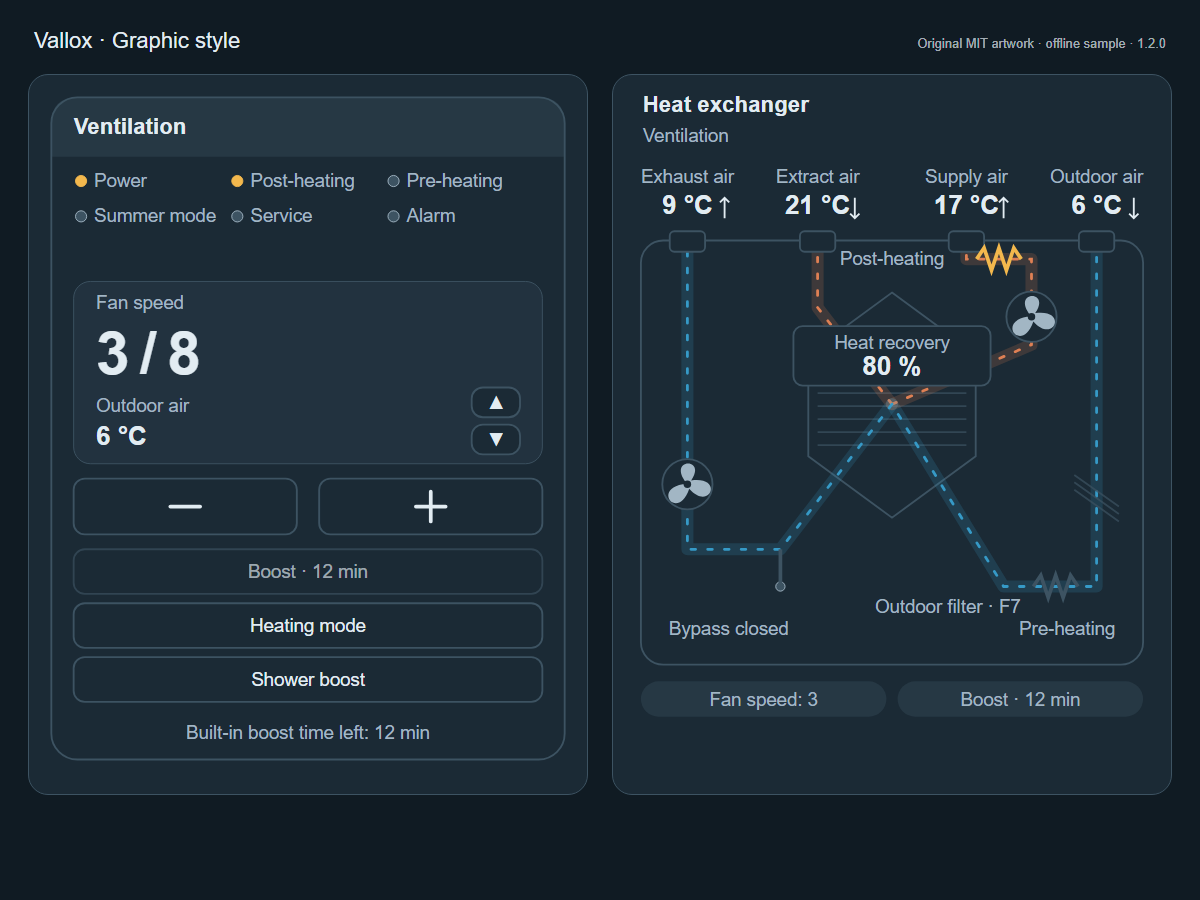
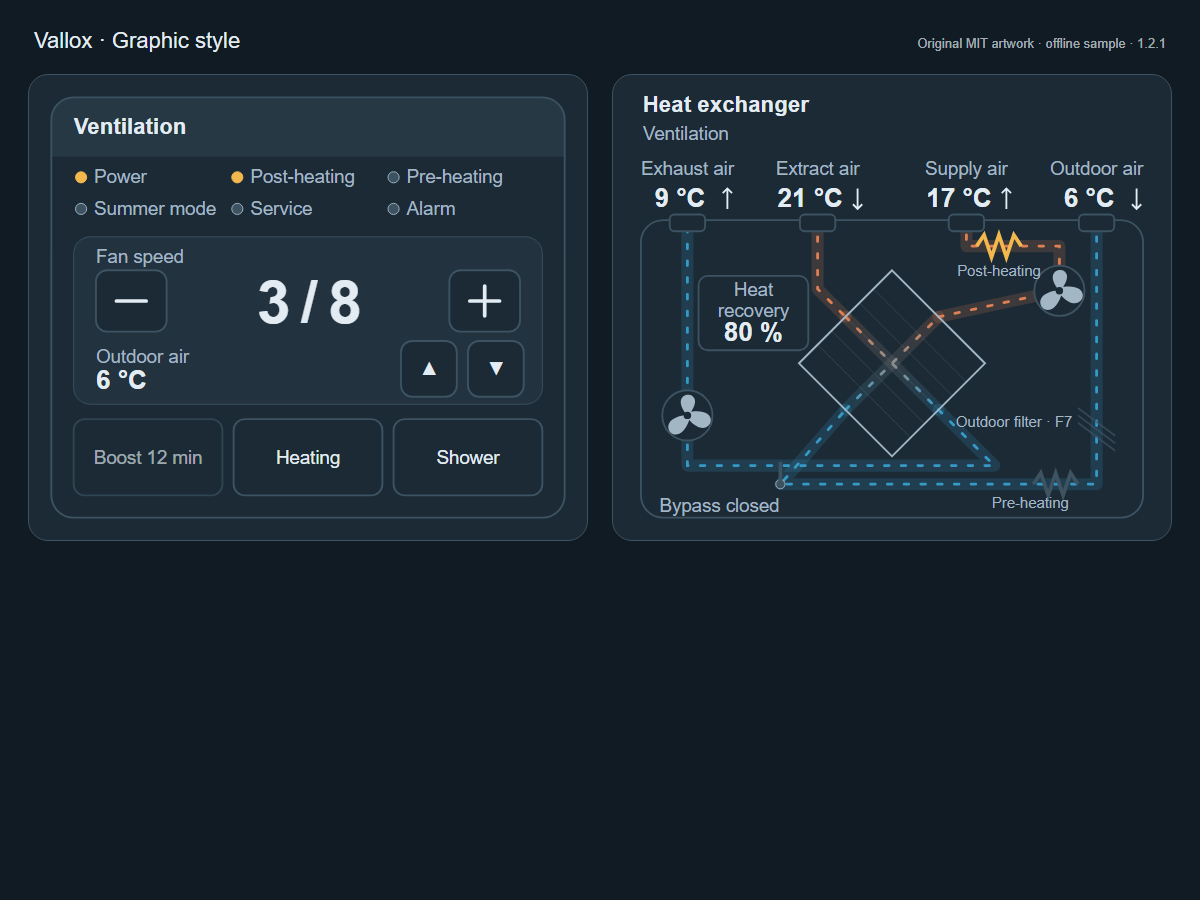
Vallox Dashboard 1.2.1: tighter, cleaner graphic style
- Heat exchanger: one outlined cell with two streams crossing through it
  face to face, heat recovery badge beside the cell, heater labels next to
  their symbols, less empty space, filter label no longer clipped.
- Fan level and boost badges are hidden when the controller is shown next to
  the exchanger; new `show_status` card option (default true) for a
  standalone exchanger.
- Controller: no gap between lights and display, - / + beside the fan level,
  boost time shown once on its button, three compact action buttons in one
  row on desktop and phones (>= 40 px tap height).
- Both cards roughly equal height on desktop; refreshed light/dark/mobile
  screenshots. Default (tiles) style unchanged. 166 tests passing.

diff --git a/dist/vallox-dashboard.js b/dist/vallox-dashboard.js
@@ -8,7 +8,7 @@
  *   - vallox (Home Assistant core, Vallox MV units over the network)
  * Built-in cards plus original inline SVG graphics. MIT licensed.
  */
-const VALLOX_DASHBOARD_VERSION = "1.2.0";
+const VALLOX_DASHBOARD_VERSION = "1.2.1";
 
 const TEXT = {
   en: {
@@ -373,13 +373,15 @@ const GRAPHIC_TEXT = {
     next: "Next readout", increase: "Increase fan level", decrease: "Decrease fan level",
     readout: "Readout", bypass: "Bypass", filter_f7: "Outdoor filter · F7", active: "Active",
     action_error: "Action failed", core_fan: "Fan speed", freeze: "Cell freeze",
-    boost: "Boost", bypass_open: "Bypass open", bypass_closed: "Bypass closed" },
+    boost: "Boost", heat_action: "Heating", shower_action: "Shower", minutes: "min",
+    recovery_label: ["Heat", "recovery"], bypass_open: "Bypass open", bypass_closed: "Bypass closed" },
   de: { controller: "Digitalregler", exchanger: "Wärmetauscher", power: "Betrieb",
     heating: "Heizbetrieb", filter: "Wartung", alarm: "Alarm", previous: "Vorherige Anzeige",
     next: "Nächste Anzeige", increase: "Lüfterstufe erhöhen", decrease: "Lüfterstufe senken",
     readout: "Anzeige", bypass: "Bypass", filter_f7: "Außenfilter · F7", active: "Aktiv",
     action_error: "Aktion fehlgeschlagen", core_fan: "Lüfterleistung", freeze: "Tauscherfrost",
-    boost: "Boost", bypass_open: "Bypass offen", bypass_closed: "Bypass geschlossen" },
+    boost: "Boost", heat_action: "Heizen", shower_action: "Duschen", minutes: "Min",
+    recovery_label: ["Wärmerück-", "gewinnung"], bypass_open: "Bypass offen", bypass_closed: "Bypass geschlossen" },
 };
 const escapeGraphic = (value) => String(value).replace(/[&<>"']/g, (c) =>
   ({ "&": "&amp;", "<": "&lt;", ">": "&gt;", '"': "&quot;", "'": "&#39;" })[c]);
@@ -446,7 +448,7 @@ const GRAPHIC_CSS = `
     --surface:var(--ha-card-background,var(--card-background-color,#fff));
     --active:var(--state-active-color,#e69b28); --cold:#369ac7; --warm:#df8054; }
   ha-card { display:block; background:var(--surface); border-radius:20px; overflow:hidden;
-    border:1px solid var(--line); box-shadow:none; }
+    border:1px solid var(--line); box-shadow:none; container-type:inline-size; }
   svg { display:block; width:100%; height:auto; font-family:inherit; }
   text { fill:currentColor; font-size:20px; } .muted { fill:var(--muted); font-size:20px; }
   .body,.button { fill:var(--surface); stroke:var(--line); stroke-width:2; }
@@ -466,7 +468,12 @@ const GRAPHIC_CSS = `
   .heater { stroke:var(--line); fill:none; stroke-width:4; } .hot { stroke:var(--active); }
   .cell { fill:var(--surface); stroke:var(--line); stroke-width:2; }
   .fin { stroke:var(--line); stroke-width:2; opacity:.7; } .badge { fill:var(--line); fill-opacity:.35; }
+  .plate { fill:none; stroke:var(--muted); stroke-width:1; opacity:.18; }
+  .cell-outline { fill:none; stroke:var(--muted); stroke-width:2; }
+  .component { fill:var(--muted); font-size:16px; }
+  .recovery-label { fill:var(--muted); font-size:20px; }
   .error { padding:0 20px 12px; color:var(--error-color,#db625a); font-size:12px; }
+  .error:empty { display:none; }
   @keyframes flow { to { stroke-dashoffset:-36; } } @keyframes spin { to { transform:rotate(360deg); } }
   @media(prefers-reduced-motion:reduce) { .flow,.spin { animation:none!important; } }
 `;
@@ -479,7 +486,7 @@ function graphicButton(x, y, w, h, label, action, disabled = false, glyph = labe
       ? `<path class="control-symbol" d="M${x + w / 2 - 16} ${y + h / 2}h32${action === "increase" ? `M${x + w / 2} ${y + h / 2 - 16}v32` : ""}"/>`
       : svgText(x + w / 2, y + h / 2 + 7, glyph, "", "middle")}</g>`;
 }
-function graphicSvg(title, content, duration, height = 760) {
+function graphicSvg(title, content, duration, height = 500) {
   return `<svg xmlns="http://www.w3.org/2000/svg" viewBox="0 0 600 ${height}" role="group"
     aria-label="${escapeGraphic(title)}" style="--speed:${duration}"><title>${escapeGraphic(title)}</title>${content}</svg>`;
 }
@@ -496,91 +503,102 @@ function renderControllerSvg(m) {
     [e.co2, t.co2, m.number("co2") !== null ? true : null],
     [e.humidity || e.humidity_2, t.humidity, m.number("humidity") !== null || m.number("humidity_2") !== null ? true : null],
   ].filter(([present]) => present);
-  let content = `<rect class="body" x="24" y="24" width="552" height="712" rx="28"/>
+  const displayY = 106 + Math.ceil(leds.length / 3) * 34;
+  const actionsY = displayY + 180 + 16;
+  const height = actionsY + 82 + 48;
+  let content = `<rect class="body" x="24" y="24" width="552" height="${height - 48}" rx="24"/>
     <path class="strip" d="M52 24H548Q576 24 576 52V88H24V52Q24 24 52 24Z"/>`
     + svgText(48, 63, m.unit.name, "title");
   content += leds.map(([, label, active], i) => {
-    const x = 56 + (i % 3) * 168, y = 120 + Math.floor(i / 3) * 38;
+    const x = 56 + (i % 3) * 168, y = 116 + Math.floor(i / 3) * 34;
     return `<circle cx="${x}" cy="${y - 6}" r="6" class="led ${active ? "lit" : ""}"><title>${escapeGraphic(label)}</title></circle>`
       + svgText(x + 14, y, active === null ? `${label} —` : label, "muted");
   }).join("");
-  content += `<rect class="lcd" x="48" y="222" width="504" height="196" rx="18"/>`
-    + svgText(72, 252, e.climate ? t.fan_speed : g.core_fan, "muted")
-    + svgText(72, 322, e.climate ? `${m.level ?? "—"} / ${m.max}` :
-      (m.fanPercentage ?? m.formatted("fan_speed", " %")), "big");
+  content += `<g transform="translate(0 ${displayY - 174})"><rect class="lcd" x="48" y="174" width="504" height="180" rx="18"/>`
+    + svgText(72, 202, e.climate ? t.fan_speed : g.core_fan, "muted")
+    + svgText(300, 267, e.climate ? `${m.level ?? "—"} / ${m.max}` :
+      (m.fanPercentage ?? m.formatted("fan_speed", " %")), "big", "middle");
   const readout = m.readouts[m.selected];
-  if (readout) content += svgText(72, 362, readout[0], "muted") + svgText(72, 398, readout[1], "value");
-  if (m.readouts.length > 1) content += graphicButton(476, 336, 52, 32, g.previous, "previous", false, "▲")
-    + graphicButton(476, 376, 52, 32, g.next, "next", false, "▼");
-  if (m.canFan) content += graphicButton(48, 434, 240, 60, g.decrease, "decrease", !m.modes.some((v) => Number(v) < m.level), "−")
-    + graphicButton(312, 434, 240, 60, g.increase, "increase", !m.modes.some((v) => Number(v) > m.level), "+");
+  if (readout) content += svgText(72, 310, readout[0], "muted") + svgText(72, 338, readout[1], "value");
+  if (m.readouts.length > 1) content += graphicButton(400, 286, 60, 60, g.previous, "previous", false, "▲")
+    + graphicButton(472, 286, 60, 60, g.next, "next", false, "▼");
+  if (m.canFan) content += graphicButton(72, 210, 76, 66, g.decrease, "decrease", !m.modes.some((v) => Number(v) < m.level), "−")
+    + graphicButton(452, 210, 76, 66, g.increase, "increase", !m.modes.some((v) => Number(v) > m.level), "+");
+  content += '</g>';
   const actions = [];
-  if (e.boost_switch) actions.push([m.boost ? `${g.boost} · ${e.boost_remaining && m.config.show?.boost_remaining !== false ? m.formatted("boost_remaining", ` ${t.minutes}`) : g.active}` : t.boost_switch, "boost",
+  if (e.boost_switch) actions.push([m.boost ? `${g.boost} ${e.boost_remaining && m.config.show?.boost_remaining !== false ? m.formatted("boost_remaining", ` ${g.minutes}`) : g.active}` : g.boost, "boost",
     m.boost || !graphicAvailable(m.hass?.states[e.boost_switch])]);
-  if (m.canHeat) actions.push([g.heating, "heat", false]);
-  if (e.shower_boost && m.preset && m.config.show?.shower_boost !== false) actions.push([t.shower_boost, "shower",
+  if (m.canHeat) actions.push([g.heat_action, "heat", false]);
+  if (e.shower_boost && m.preset && m.config.show?.shower_boost !== false) actions.push([g.shower_action, "shower",
     !graphicAvailable(m.hass.states[e.shower_boost])]);
-  content += actions.map(([label, action, disabled], i) => graphicButton(48, 510 + i * 58, 504, 48, label, action, disabled)).join("");
-  if (m.boost && e.boost_remaining && m.config.show?.boost_remaining !== false) {
-    content += svgText(300, 714, `${t.boost_remaining}: ${m.formatted("boost_remaining", ` ${t.minutes}`)}`, "muted", "middle");
-  }
-  return graphicSvg(g.controller, content, m.duration);
+  content += '<g class="actions">' + actions.map(([label, action, disabled]) =>
+    graphicButton(48 + actions.findIndex((item) => item[1] === action) * 172, actionsY, 160, 82, label, action, disabled)).join("") + '</g>';
+  return graphicSvg(g.controller, content, m.duration, height);
 }
 
 function renderExchangerSvg(m) {
   const { e, t, g } = m;
   const bypass = m.on("summer_mode");
-  let content = svgText(32, 40, g.exchanger, "title") + svgText(32, 72, m.unit.name, "muted")
-    + '<rect class="body" x="30" y="178" width="540" height="456" rx="24"/>'
-    + '<path class="cell" d="M300 234L390 300V410L300 476L210 410V300Z"/>';
-  for (let y = 300; y <= 410; y += 14) content += `<path class="fin" d="M220 ${y}H380"/>`;
-  // Continuous diagonals cross inside the cell, beneath the recovery label.
+  let content = svgText(32, 40, g.exchanger, "title") + svgText(32, 70, m.unit.name, "muted")
+    + '<rect class="body" x="30" y="156" width="540" height="320" rx="24"/>'
+    + '<defs><linearGradient id="extract-gradient" gradientUnits="userSpaceOnUse" x1="250" y1="260" x2="350" y2="360"><stop stop-color="var(--warm)"/><stop offset="1" stop-color="var(--cold)"/></linearGradient>'
+    + '<linearGradient id="supply-gradient" gradientUnits="userSpaceOnUse" x1="250" y1="360" x2="350" y2="260"><stop stop-color="var(--cold)"/><stop offset="1" stop-color="var(--warm)"/></linearGradient></defs>'
+    + '<path class="cell" d="M300 210L400 310L300 410L200 310Z"/>';
+  for (let offset = -30; offset <= 30; offset += 15) {
+    content += '<path class="plate" d="M' + (250 + offset) + ' ' + (260 - offset) + 'L' + (350 + offset) + ' ' + (360 - offset) + '"/>';
+  }
+  // Opposite faces: NW → SE extract/exhaust, SW → NE outdoor/supply.
+  // One soft band and one animated dash line per stream, face to opposite face.
+  const channels = (name, from, to, motor) => {
+    const path = 'M' + from[0] + ' ' + from[1] + 'L' + to[0] + ' ' + to[1];
+    return '<g style="stroke:url(#' + name + '-gradient)"><path class="pipe" d="' + path + '"/>'
+      + '<path data-cell-stream="' + name + '" class="flow ' + (m.running(motor) ? '' : 'stopped') + '" d="' + path + '"/></g>';
+  };
+  content += channels("extract", [250, 260], [350, 360], "motor_out");
+  if (!bypass) content += channels("supply", [250, 360], [350, 260], "motor_in");
   const ducts = [
-    ["outdoor", 520, bypass ? "M520 178V550H180V220H380V178" : "M520 178V550H420L300 354", "cold", "motor_in", true],
-    ["supply", 380, bypass ? "M380 220H450V198H380V178" : "M300 354L450 290V198H380V178", bypass ? "cold" : "warm", "motor_in", false],
-    ["extract", 220, "M220 178V250L300 354", "warm", "motor_out", true],
-    ["exhaust", 80, "M300 354L180 510H80V178", "cold", "motor_out", false],
+    ["outdoor", 520, bypass ? "M520 156V440H170V212H380V156" : "M520 156V440H180L250 360", "cold", "motor_in", true],
+    ["supply", 380, bypass ? "M380 212H480V184H380V156" : "M350 260L480 232V184H380V156", bypass ? "cold" : "warm", "motor_in", false],
+    ["extract", 220, "M220 156V230L250 260", "warm", "motor_out", true],
+    ["exhaust", 80, "M350 360L410 420H80V156", "cold", "motor_out", false],
   ];
   content += ducts.filter(([r]) => e[r]).map(([r, x, path, color, motor, incoming]) =>
-    svgText(x, 116, t[r], "muted", "middle") + svgText(x, 150, m.formatted(r, " °C"), "value", "middle")
-    + `<path class="direction" aria-label="${incoming ? "↓" : "↑"}" d="${incoming ? `M${x + 40} 132v22m-5 -5l5 5 5 -5` : `M${x + 40} 154v-22m-5 5l5 -5 5 5`}"/>
-      <path class="pipe ${color}" d="${path}"/>
-      <path data-stream="${r}" class="flow ${color} ${m.running(motor) ? "" : "stopped"}" d="${path}"/>
-      <rect class="body" x="${x - 19}" y="168" width="38" height="22" rx="5"/>`).join("");
+    svgText(x, 108, t[r], "muted", "middle") + svgText(x - 8, 142, m.formatted(r, " °C"), "value", "middle")
+    + '<path class="direction" aria-label="' + (incoming ? "↓" : "↑") + '" d="' + (incoming ? 'M' + (x + 43) + ' 122v22m-5 -5l5 5 5 -5' : 'M' + (x + 43) + ' 144v-22m-5 5l5 -5 5 5') + '"/>'
+    + '<path class="pipe ' + color + '" d="' + path + '"/>'
+    + '<path data-stream="' + r + '" class="flow ' + color + ' ' + (m.running(motor) ? '' : 'stopped') + '" d="' + path + '"/>'
+    + '<rect class="body" x="' + (x - 19) + '" y="150" width="38" height="18" rx="5"/>').join("");
   if (e.efficiency || [e.outdoor, e.extract, e.exhaust].every(Boolean)) {
-    content += '<rect class="cell" x="194" y="270" width="212" height="64" rx="10"/>'
-      + svgText(300, 295, t.efficiency, "muted", "middle")
-      + svgText(300, 323, m.efficiency === null ? "—" : `${Math.round(m.efficiency)} %`, "value", "middle");
+    content += '<g aria-label="' + escapeGraphic(t.efficiency) + '"><rect class="cell" x="92" y="216" width="118" height="80" rx="10"/>'
+      + g.recovery_label.map((label, i) => svgText(151, 238 + i * 22, label, "recovery-label", "middle")).join("")
+      + svgText(151, 286, m.efficiency === null ? "—" : Math.round(m.efficiency) + " %", "value", "middle") + '</g>';
   }
-  const fan = (role, x, y) => !e[role] ? "" : `<g transform="translate(${x} ${y})">
-    <circle class="body" r="27"/><g data-motor="${role}" class="${m.running(role) ? "spin" : "stopped"}">
-    <path fill="var(--muted)" d="M0 0C-24-28 22-30 4-4C40-9 24 30 2 5C-10 40-38 6-5 0Z"/>
-    </g><circle r="4" fill="var(--surface)"/></g>`;
-  content += fan("motor_out", 80, 440) + fan("motor_in", bypass ? 520 : 450, bypass ? 320 : 260);
-  const heater = (role, x, y, labelX, labelY, anchor) => !e[role] ? "" : `<path data-heater="${role}" class="heater ${m.on(role) ? "hot" : ""}"
-    d="M${x - 24} ${y}l8 -12 8 24 8 -24 8 24 8 -24 8 12"/>`
-    + svgText(labelX, labelY, m.value(role) === null ? `${t[role]} —` : t[role], "muted", anchor);
-  content += heater("front_heating", 476, 550, 540, 602, "end")
-    + heater("post_heating", 415, 198, 300, 204, "middle");
-  if (e.outdoor) content += '<path class="fin" d="M496 430L544 464M496 438L544 472M496 446L544 480"/>'
-    + svgText(360, 578, g.filter_f7, "muted", "middle");
+  const fan = (role, x, y) => !e[role] ? "" : '<g transform="translate(' + x + ' ' + y + ')">'
+    + '<circle class="body" r="27"/><g data-motor="' + role + '" class="' + (m.running(role) ? 'spin' : 'stopped') + '">'
+    + '<path fill="var(--muted)" d="M0 0C-24-28 22-30 4-4C40-9 24 30 2 5C-10 40-38 6-5 0Z"/>'
+    + '</g><circle r="4" fill="var(--surface)"/></g>';
+  content += '<path class="cell-outline" d="M300 210L400 310L300 410L200 310Z"/>';
+  content += fan("motor_out", 80, 366) + fan("motor_in", 480, 232);
+  const heater = (role, x, y, labelX, labelY, anchor) => !e[role] ? "" : '<path data-heater="' + role + '" class="heater ' + (m.on(role) ? 'hot' : '')
+    + '" d="M' + (x - 24) + ' ' + y + 'l8 -12 8 24 8 -24 8 24 8 -24 8 12"/>'
+      + svgText(labelX, labelY, m.value(role) === null ? t[role] + " —" : t[role], "component", anchor);
+  content += heater("front_heating", 476, 440, 490, 466, "end")
+    + heater("post_heating", 415, 184, 415, 216, "middle");
+  if (e.outdoor) content += '<path class="fin" d="M500 358L540 388M500 366L540 396M500 374L540 404"/>'
+      + svgText(494, 378, g.filter_f7, "component", "end");
   if (e.summer_mode) {
-    content += `<g data-bypass="${bypass ? "open" : "closed"}">
-      <circle class="led" cx="180" cy="550" r="5"/>
-      <path class="heater ${bypass ? "hot" : ""}" d="${bypass ? "M180 550L210 520" : "M180 550V510"}"/></g>`
-      + svgText(60, 602, m.value("summer_mode") === null ? `${g.bypass} —` : bypass ? g.bypass_open : g.bypass_closed, "muted");
+    content += '<g data-bypass="' + (bypass ? 'open' : 'closed') + '"><circle class="led" cx="180" cy="440" r="5"/>'
+      + '<path class="heater ' + (bypass ? 'hot' : '') + '" d="' + (bypass ? 'M180 440L200 420' : 'M180 440V416') + '"/></g>'
+      + svgText(50, 470, m.value("summer_mode") === null ? g.bypass + " —" : bypass ? g.bypass_open : g.bypass_closed, "muted");
   }
-  const badges = [];
-  if (e.climate || e.fan_speed || e.fan) badges.push(`${t.fan_speed}: ${e.climate ? m.level ?? "—" : m.fanPercentage ?? m.formatted("fan_speed", " %")}`);
-  if (m.boost && m.config.show?.boost_remaining !== false) badges.push(`${g.boost} · ${e.boost_remaining ? m.formatted("boost_remaining", ` ${t.minutes}`) : g.active}`);
-  if (m.on("cell_freeze_alarm") && m.config.show?.alarms !== false) badges.push(g.freeze);
-  if (m.alarm && m.config.show?.alarms !== false) badges.push(g.alarm);
-  content += badges.map((label, i) => {
-    const x = 30 + i % 2 * 276, y = 652 + Math.floor(i / 2) * 48;
-    return `<rect class="badge" x="${x}" y="${y}" width="264" height="38" rx="19"/>`
-      + svgText(x + 132, y + 26, label, "muted", "middle");
-  }).join("");
-  if (m.alarm && m.config.show?.alarms !== false) content += '<circle class="warning" cx="550" cy="195" r="8"/>';
+  const badge = (x, y, label) => '<rect class="cell" x="' + x + '" y="' + y + '" width="186" height="36" rx="12"/>'
+    + svgText(x + 93, y + 25, label, "muted", "middle");
+  if (m.config.show_status !== false) {
+    if (e.climate || e.fan_speed || e.fan) content += '<g aria-label="' + escapeGraphic(t.fan_speed) + '"><rect class="cell" x="410" y="322" width="100" height="36" rx="12"/>' + svgText(460, 347, e.climate ? (m.level ?? "—") + " / " + m.max : m.fanPercentage ?? m.formatted("fan_speed", " %"), "muted", "middle") + '</g>';
+    if (m.boost && m.config.show?.boost_remaining !== false) content += badge(352, 30, g.boost + ' · ' + (e.boost_remaining ? m.formatted("boost_remaining", ' ' + t.minutes) : g.active));
+  }
+  if (m.on("cell_freeze_alarm") && m.config.show?.alarms !== false) content += badge(50, 470, g.freeze);
+  if (m.alarm && m.config.show?.alarms !== false) content += '<circle class="warning" cx="550" cy="175" r="8"><title>' + escapeGraphic(g.alarm) + '</title></circle>';
   return graphicSvg(g.exchanger, content, m.duration);
 }
 
@@ -670,6 +688,7 @@ function graphicOverview(hass, u, t, config) {
   const graphics = ["controller", "exchanger"].filter((view) => show[view] !== false).map((view) => ({
     type: "custom:vallox-graphic-card", view, ...HALF,
     device_id: u.deviceId, name: u.name,
+    ...(view === "exchanger" ? { show_status: show.controller === false } : {}),
     entities: { ...Object.fromEntries(Object.keys(PACKAGE_ENTITIES).map((r) => [r, null])), ...u.e }, show: { ...show },
     ...(config.shower_boost_presets ? { shower_boost_presets: config.shower_boost_presets } : {}),
   }));

diff --git a/tools/render/index.html b/tools/render/index.html
@@ -19,7 +19,7 @@
   @media(max-width:720px) { main { grid-template-columns:1fr; } header { display:block; } p { margin-top:10px; } }
   #actions { font-size:12px; margin:16px 6px; }
 </style>
-<header><h1>Vallox · Graphic style</h1><p>Original MIT artwork · offline sample · 1.2.0</p></header>
+<header><h1>Vallox · Graphic style</h1><p>Original MIT artwork · offline sample · 1.2.1</p></header>
 <main id="cards"></main><div id="actions" role="status"></div>
 <script src="sample-data.js"></script>
 <script src="../../dist/vallox-dashboard.js"></script>
@@ -35,7 +35,7 @@
   if (params.get("variant") === "stopped") hass.states["binary_sensor.ventilation"].state = "off";
   for (const view of params.has("view") ? [params.get("view")] : ["controller", "exchanger"]) {
     const card = document.createElement("vallox-graphic-card");
-    card.setConfig({ view });
+    card.setConfig({ view, show_status: params.has("view") });
     card.hass = hass;
     document.querySelector("#cards").append(card);
   }

diff --git a/README.md b/README.md
@@ -232,10 +232,15 @@ view: controller # or exchanger
 The card uses existing integration discovery, `device_id`, `name` and `entities` overrides
 (including `null` to suppress a role). No entity configuration is needed on vallox2mqtt.
 The direct card picks the first selected unit. Strategy cards carry the selected unit's mappings.
+Exchanger option `show_status` defaults to `true`: fan level appears beside the supply fan
+and active boost at the top right, inside the graphic. The strategy sets `show_status: false`
+when its controller is also shown, and `true` when `show.controller: false`. Alarms remain
+visible independently. Set `show_status: false` on a direct exchanger to hide these badges.
+
 The card picker lists **Vallox graphic**; change `view` in YAML to select the exchanger.
 
 The digital panel shows a read-only power indicator and available heater, bypass, service,
-alarm, CO₂ and humidity indicators. Its LCD shows fan level and a secondary readout;
+alarm, CO₂ and humidity indicators. Its LCD shows fan level with adjacent −/+ controls and a secondary readout;
 ▲/▼ cycle available temperatures, recovery, built-in boost time and fault code locally.
 The +/− buttons call `climate.set_fan_mode` with string modes from `"1"` to `"8"`,
 bounded by the advertised `fan_modes` and `maximum_fan_speed`. Sparse advertised modes
@@ -249,6 +254,10 @@ The exchanger is an abstract front-view schematic: four top ducts, a tall centra
 extract fan lower left, supply fan right, pre-heater beside the F7 outdoor filter at
 lower right, post-heater on the supply side, and a bottom bypass flap.
 It is an orientation aid, not an installation or physical duct-routing diagram.
+The streams cross the full cell between opposite faces through parallel diagonal channels;
+warm/cold gradients show the temperature change, with the heat recovery badge beside the cell.
+Action buttons sit in one row of three on desktop and phones (at least 40 px high at the
+documented 430 px phone layout; labels shorten on narrow cards). Boost time appears on its button.
 Directional dashed streams and fan animation follow fan level and stop when the unit
 or the corresponding motor is off. Reduced-motion preferences disable all animation.
 Temperatures, recovery, heating, bypass, boost and alarm highlights update from HA states.

diff --git a/tools/render/README.md b/tools/render/README.md
@@ -10,7 +10,7 @@ Example PowerShell capture from the repository root:
 ```powershell
 $preview = (Join-Path (Get-Location) 'tools/render/index.html')
 $output = (Join-Path (Get-Location) 'images/graphic-dark.png')
-& 'C:\Program Files\Google\Chrome\Application\chrome.exe' --headless=new --disable-gpu --hide-scrollbars --disable-background-networking --no-first-run --window-size=1200,700 "--screenshot=$output" "file:///$($preview.Replace('\','/'))?theme=dark"
+& 'C:\Program Files\Google\Chrome\Application\chrome.exe' --headless=new --disable-gpu --hide-scrollbars --disable-background-networking --no-first-run --window-size=1200,900 "--screenshot=$output" "file:///$($preview.Replace('\','/'))?theme=dark"
 ```
 
 Animation respects the operating system's reduced-motion preference. This is development
@@ -19,4 +19,21 @@ tooling only; HA loads only `dist/vallox-dashboard.js`.
 The checked-in light/dark PNGs were captured with Chrome at 1200 × 900; mobile light/dark
 use 430 × 1250 with `?layout=narrow` (append `&theme=dark` for dark). The narrow harness
 explicitly caps the page width to avoid Chrome headless's minimum layout viewport cropping the cards.
+After Chrome exits, crop the mobile captures to 430 × 880 (content plus bottom padding):
+
+```powershell
+Add-Type -AssemblyName System.Drawing
+foreach ($name in @('graphic-mobile-light.png', 'graphic-mobile-dark.png')) {
+  $path = Join-Path (Get-Location) "images/$name"
+  $bitmap = [System.Drawing.Bitmap]::new($path)
+  $crop = $bitmap.Clone([System.Drawing.Rectangle]::new(0, 0, 430, 880), $bitmap.PixelFormat)
+  $bitmap.Dispose()
+  $crop.Save($path, [System.Drawing.Imaging.ImageFormat]::Png)
+  $crop.Dispose()
+}
+```
+
+The default paired preview hides duplicate exchanger status, matching the strategy;
+`?view=exchanger` shows standalone fan/boost badges. Keep the same sample data.
+For fully offline captures, also pass `'--host-resolver-rules=MAP * ~NOTFOUND'` to Chrome.
 In a sandboxed environment Chrome may additionally need `--no-sandbox`.

diff --git a/CHANGELOG.md b/CHANGELOG.md
@@ -1,5 +1,12 @@
 # Changelog
 
+## 1.2.1
+
+- Draw two full crossing heat-exchanger bands inside one outlined cell, with subtle plates and warm/cold gradients; place recovery beside the cell and heater labels beside their symbols.
+- Compact both graphics to equal desktop heights with balanced bottom padding; place fan controls beside the readout and keep three short action buttons in one row on mobile without a repeated boost footer.
+- Hide exchanger fan/boost badges beside the strategy controller; show them inside standalone exchangers via `show_status` (default `true`).
+- Refresh offline light/dark desktop/mobile captures and verify German spacing, accessibility and unchanged default/tiles snapshots.
+
 ## 1.2.0
 
 - Add opt-in `style: graphic` to section/view/dashboard strategies, preserving default and tiles output from 1.1.0.
